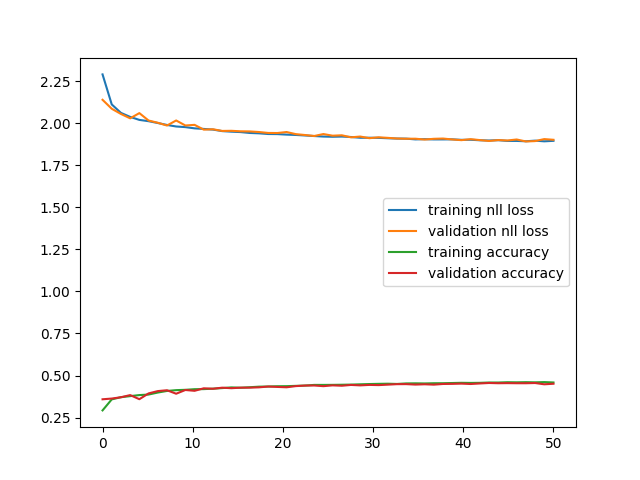
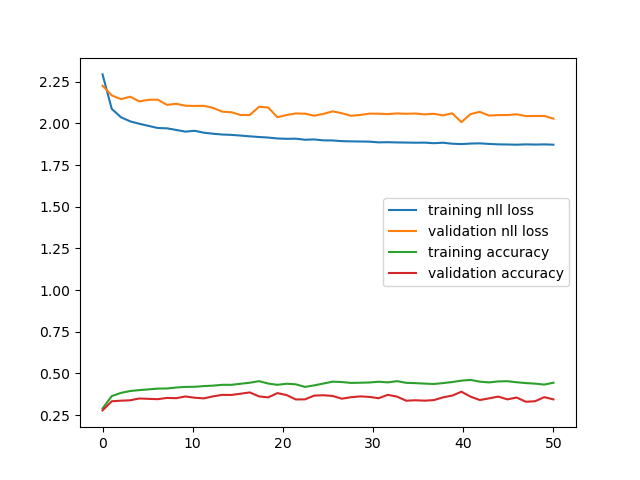
testing linear

diff --git a/src/utils/ops.py b/src/utils/ops.py
@@ -32,7 +32,7 @@ class graphConvPool(nn.Module):
     def __init__(self, k, in_dim, act):
         super(graphConvPool, self).__init__()
         self.k = k
-        self.scoregen = GCNConv(in_dim, 1)
+        self.scoregen = nn.Linear(in_dim, 1)
         self.act = act
 
     def remove_obstacle(self,max, shape, indices):
@@ -65,7 +65,7 @@ class graphConvPool(nn.Module):
         return new_g, e1, indices
         
     def forward(self, x, edge_index):
-        p1 = self.scoregen(x, edge_index)
+        p1 = self.scoregen(x)
         return self.top_k_pool(x, edge_index, p1)
 
 class graphConvUnpool(nn.Module):
